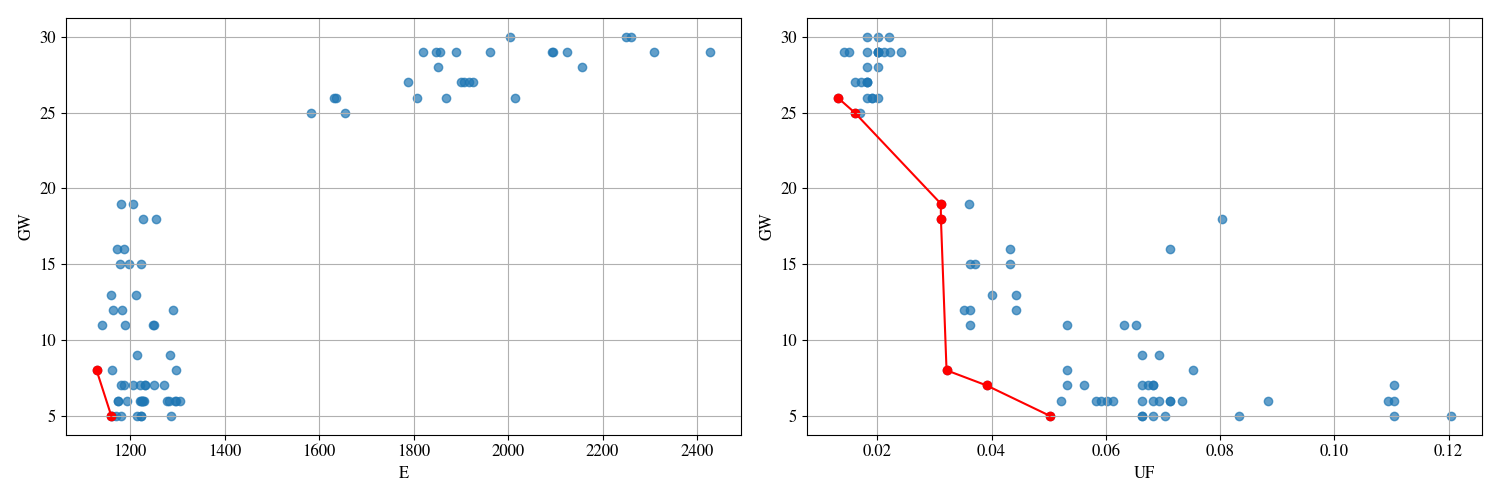
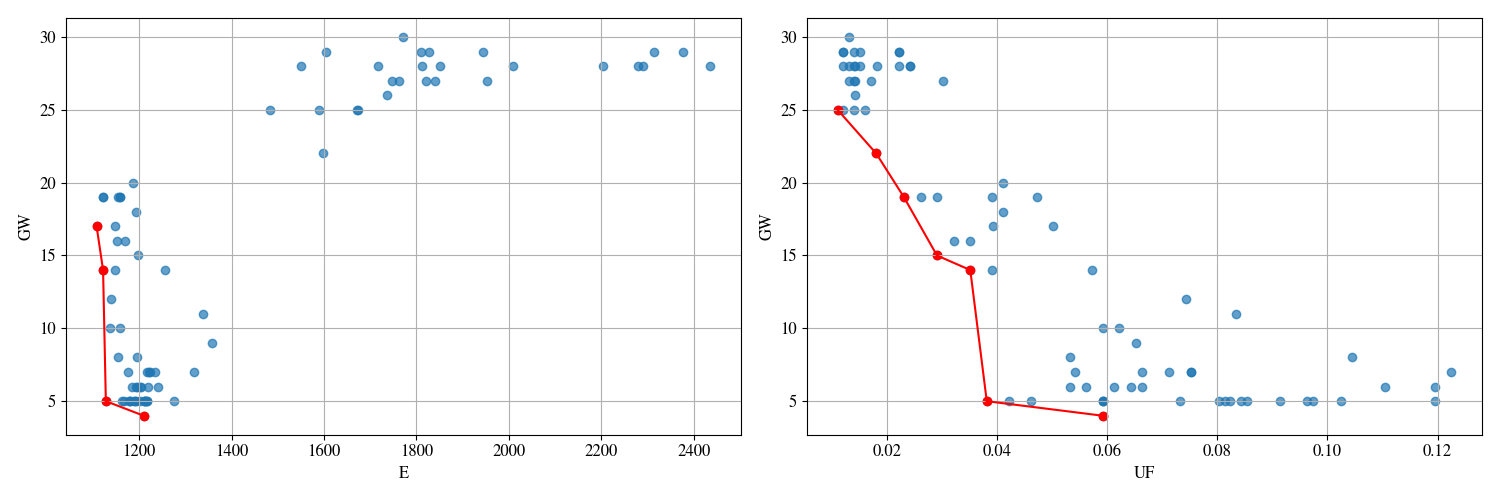
Plot of the simulations results

diff --git a/python/resultados.py b/python/resultados.py
@@ -1,0 +1,156 @@
+import matplotlib.pyplot as plt
+import matplotlib as mpl
+
+mpl.rcParams['mathtext.fontset'] = 'stix'  
+mpl.rcParams['font.family'] = 'STIXGeneral'  
+mpl.rcParams['font.size'] = 12
+
+
+cplex = [ # GW, E, UF
+    [15,595,0.006514],
+    [10,687,0.01002],
+    [8,767,0.01101],
+    [6,904,0.01205],
+    [5,1016,0.01906],
+    [4,1164,0.02407],
+    [3,1386,0.03812],
+    [2,1708,0.08256],
+    [1,2194,0.31052]
+] 
+
+greedy = [
+    [12,752,0.012529],
+    [11,782,0.013530],
+    [10,789,0.014530],
+    [9,791,0.015527],
+    [7,854,0.016062],
+    [6,904,0.019544],
+    [5,1016,0.027116],
+    [4,1166,0.045172]
+]
+
+moga = [
+    [30,1292,0.012],
+    [29,1367,0.012],
+    [26,1427,0.014],
+    [16,2294,0.036],
+    [15,2504,0.05]
+]
+
+"""
+Figuras a y b
+"""
+
+def e_vs_g(axs, col):    
+    # Plot E vs GW for cplex
+    for i in range(len(cplex) - 1):
+        axs.plot([cplex[i][col], cplex[i+1][col]], [cplex[i][0], cplex[i+1][0]], color='red')
+        axs.scatter(cplex[i][col], cplex[i][0], color='red')
+    axs.scatter(cplex[-1][col], cplex[-1][0], color='red')
+    axs.annotate('CPLEX', (cplex[0][col], cplex[0][0]), textcoords="offset points", xytext=(5,5), ha='center', color='red')
+
+    # Plot E vs GW for greedy
+    for i in range(len(greedy) - 1):
+        axs.plot([greedy[i][col], greedy[i+1][col]], [greedy[i][0], greedy[i+1][0]], color='blue')
+        axs.scatter(greedy[i][col], greedy[i][0], color='blue')
+    axs.scatter(greedy[-1][col], greedy[-1][0], color='blue')
+    axs.annotate('Greedy', (greedy[0][col], greedy[0][0]), textcoords="offset points", xytext=(5,5), ha='center', color='blue')
+
+    # Plot E vs GW for moga
+    for i in range(len(moga) - 1):
+        axs.plot([moga[i][col], moga[i+1][col]], [moga[i][0], moga[i+1][0]], color='black')
+        axs.scatter(moga[i][col], moga[i][0], color='black')
+    axs.scatter(moga[-1][col], moga[-1][0], color='black')
+    axs.annotate('MOGA', (moga[0][col], moga[0][0]), textcoords="offset points", xytext=(5,5), ha='center', color='black')
+
+
+fig, axs = plt.subplots(1, 1, figsize=(6, 6))
+e_vs_g(axs,1)
+axs.set_xlabel("Energy")
+axs.set_ylabel("Gateway")
+plt.grid(True)
+plt.tight_layout()
+plt.show()
+
+fig, axs2 = plt.subplots(1, 1, figsize=(6, 6))
+e_vs_g(axs2,2)
+axs2.set_xlabel("Utilization")
+axs2.set_ylabel("Gateway")
+plt.grid(True)
+plt.tight_layout()
+plt.show()
+
+"""
+Figura c
+"""
+
+E1 = [2194,2256,2344]
+U1 = [0.3500,0.3200,0.3105]
+
+E2 = [1708,1708,1724]
+U2 = [0.200000,0.100000,0.090000]
+
+E3 = [1386,1396,1420,1420,1978]
+U3 = [0.060000,0.050000,0.040000,0.039000,0.038120]
+
+E4 = [1164,1170,1226,1242,1242]
+U4 = [0.050000,0.040000,0.030000,0.027000,0.024500]
+
+E5 = [1016,1016,1032,1062,1064,1104,1144]
+U5 = [0.035000,0.030000,0.025000,0.023000,0.020000,0.018000,0.017000]
+
+E6 = [904,912,938,946,962,976,994]
+U6 = [0.020000,0.018000,0.016000,0.015000,0.014000,0.013000,0.012500]
+
+E8 = [878,814,786,770,767,767]
+U8 = [9.0000e-03,1.0000e-02,1.1010e-02,1.5000e-02,2.0000e-02,3.0000e-02]
+
+E10 = [687,687,695,734,740,972]
+U10 = [3.0000e-02,2.0000e-02,1.0000e-02,8.0000e-03,7.0000e-03,6.0000e-03]
+
+E15 = [585,585,585,585,593,593,595]
+U15 = [2.0000e-02,1.0000e-02,9.0000e-03,8.0000e-03,7.0000e-03,6.6000e-03,6.5140e-03]
+
+
+def plotdata(axs, X, Y, color, label):
+    axs.plot(X, Y, color=color, label=label)
+    axs.scatter(X, Y, color=color)
+    axs.annotate(label, (X[-1], Y[-1]), textcoords="offset points", xytext=(5,5), ha='center', color=color)
+
+
+fig, axs = plt.subplots(1, 1, figsize=(6, 6))    
+plotdata(axs, U1, E1, 'red', 'G=1')
+plotdata(axs, U2, E2, 'blue', 'G=2')
+plotdata(axs, U3, E3, 'brown', 'G=3')
+plotdata(axs, U4, E4, 'black', 'G=4')
+plotdata(axs, U5, E5, 'red', 'G=5')
+plotdata(axs, U6, E6, 'blue', 'G=6')
+plotdata(axs, U8, E8, 'green', 'G=8')
+plotdata(axs, U10, E10, 'brown', 'G=10')
+plotdata(axs, U15, E15, 'black', 'G=15')
+axs.set_xlabel("Utilization")
+axs.set_ylabel("Energy")
+plt.grid(True)
+plt.tight_layout()
+plt.show()
+
+
+"""
+mogaWME = [
+    [1108,17]
+    [1122,14]
+    [1128,5]
+    [1210,4]
+]
+
+mogaWMU = [
+    [0.0130573,26
+    0.0160623,25
+    0.0311135,19
+    0.0311396,18
+    0.0321245,8
+    0.0391396,7
+    0.0501787,5]
+]
+"""
+

diff --git a/python/datospareto.m b/python/datospareto.m
@@ -1,0 +1,72 @@
+Exacto cplex
+E=[595,687,767,904,1016,1164,1386,1708,2194];
+U=[0.006514,0.01002,0.01101,0.01205,0.01906,0.02407,0.03812,0.08256,0.31052];
+G=[15,10,8,6,5,4,3,2,1];
+
+Parametrizacion E-U segun los G
+E1 =[2194   2256   2344];
+U1 =[0.3500   0.3200   0.3105]
+
+E2 =[1708   1708   1724];
+U2 =[0.200000   0.100000   0.090000];
+
+E3 ={1386   1396   1420   1420   1978];
+U3 =[0.060000   0.050000   0.040000   0.039000   0.038120];
+
+E4 =[1164   1170   1226   1242   1242];
+U4 =[0.050000   0.040000   0.030000   0.027000   0.024500];
+
+E5 =[1016   1016   1032   1062   1064   1104   1144];
+U5 =[0.035000   0.030000   0.025000   0.023000   0.020000   0.018000   0.017000];
+
+E6 =[904   912   938   946   962   976   994];
+U6 =[0.020000   0.018000   0.016000   0.015000   0.014000   0.013000   0.012500];
+
+E8 =[878   814   786   770   767   767];
+U8 =[9.0000e-03   1.0000e-02   1.1010e-02   1.5000e-02   2.0000e-02   3.0000e-02];
+
+E10 =[687   687   695   734   740   972];
+U10 =[3.0000e-02   2.0000e-02   1.0000e-02   8.0000e-03   7.0000e-03   6.0000e-03];
+
+E15 =[585   585   585   585   593   593   595];
+U15 =[2.0000e-02   1.0000e-02   9.0000e-03   8.0000e-03   7.0000e-03   6.6000e-03 6.5140e-03];
+
+Greedy
+greedyU =[1.2529e-02   1.2000e+01;
+   1.3530e-02   1.1000e+01;
+   1.4530e-02   1.0000e+01;
+   1.5527e-02   9.0000e+00;
+   1.6062e-02   7.0000e+00;
+   1.9544e-02   6.0000e+00;
+   2.7116e-02   5.0000e+00;
+   4.5172e-02   4.0000e+00];
+
+greedyE =[752     12;
+    782     11;
+    789     10;
+    791      9;
+    812      8;
+    854      7;
+    854      7;
+    904      6;
+   1016      5;
+   1166      4];
+
+MOGA
+mogaU=[.012,.012,.014,.036,.05];
+mogaE=[1292,1367,1427,2294,2504];
+mogaG=[30,29,26,16,15];
+
+MOGA WM
+mogaWME=[[1108   17]
+[1122   14]
+[1128    5]
+[1210    4]];
+
+ mogaWMU=[[0.0130573,26
+0.0160623,25
+0.0311135 19
+0.0311396 18
+0.0321245 8
+0.0391396 7
+0.0501787 5]];
